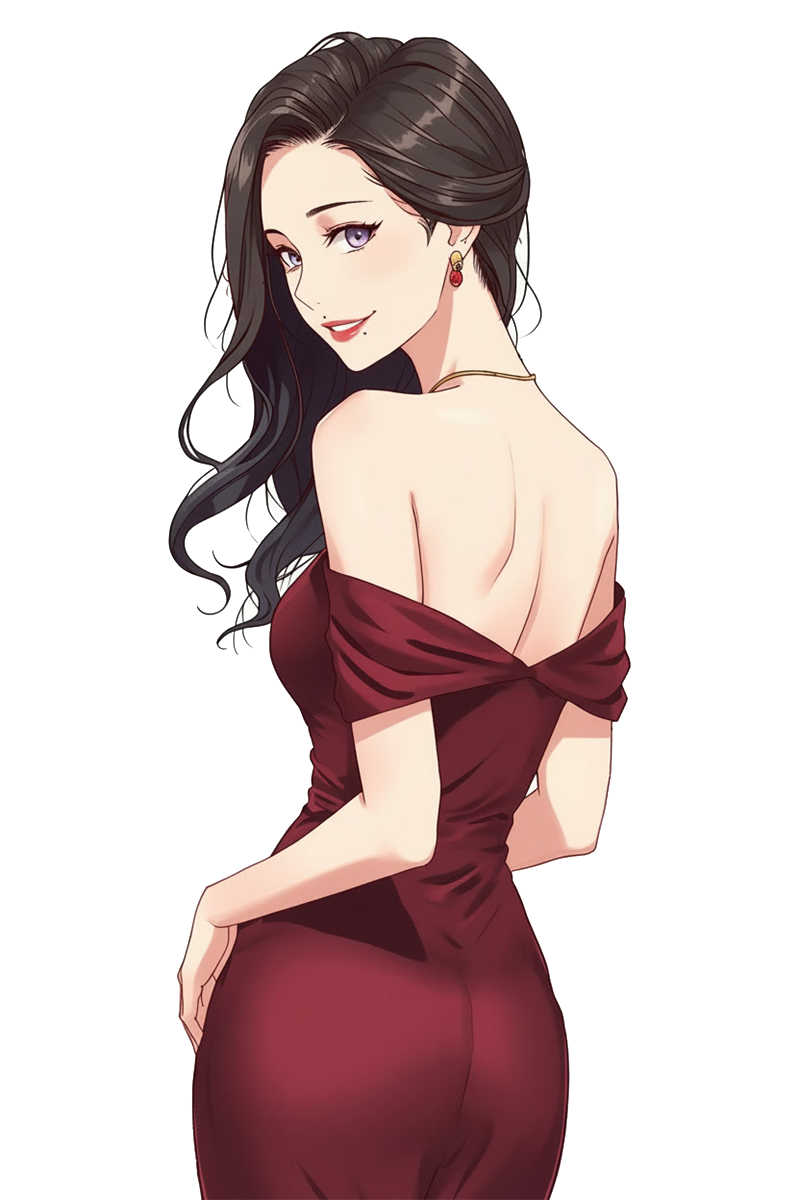
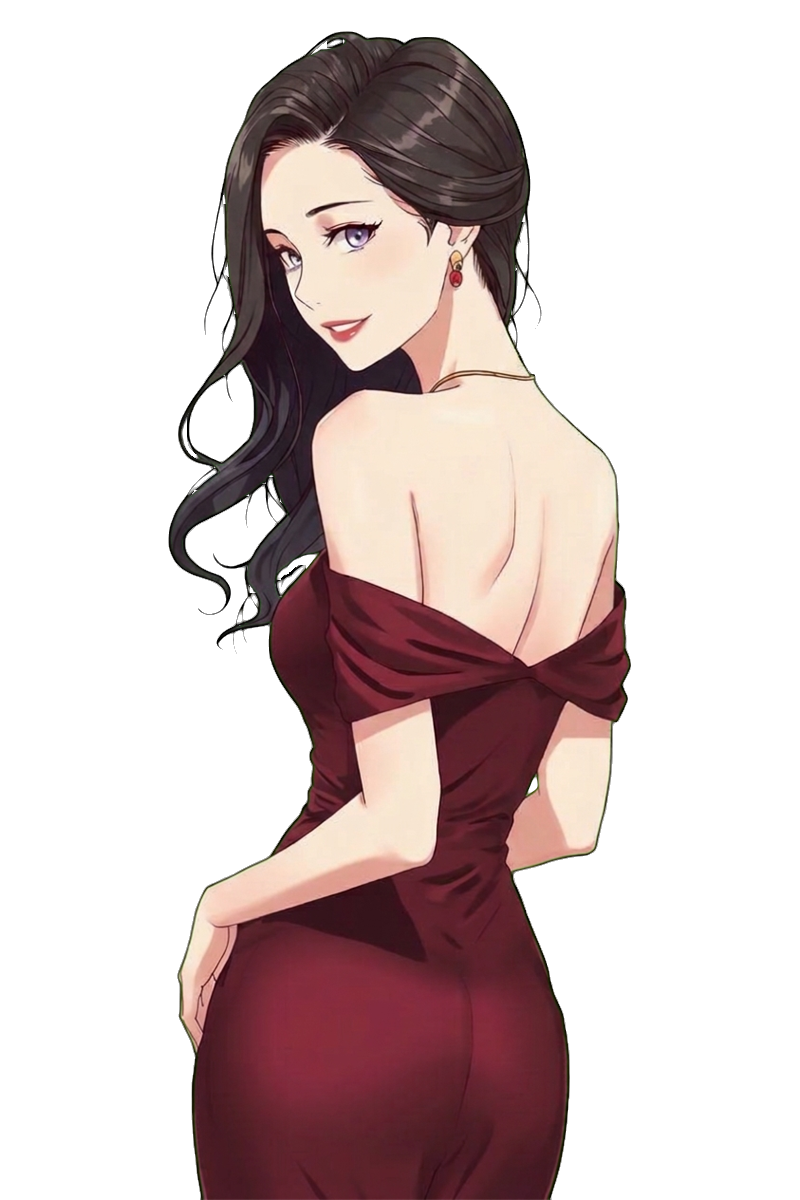
23 時の場面に瀬名の絵と立ち絵を出し、玲子の立ち絵を差し替える（v0.2.3）
- 瀬名のモップがけの場面の絵（ch1_sena_mop）を入れた
- @look・@event の本文の中で @show・@hide・@sound・@fx を使えるようにした（読む流れの中で実行。途中で打ち切ったら立ち絵は元に戻す）
- 23 時に八島が瀬名に気づく行で、瀬名の立ち絵をちらっと出す
- 玲子の立ち絵 3 枚を差し替えた（緑の背景）
- 変換スクリプト: 緑（青）の背景のとき、画像全体で緑みの強すぎる画素を薄くする（髪のすき間の影になった緑を消す）
- バージョンを 0.2.3 に上げた

diff --git a/game/js/game.js b/game/js/game.js
@@ -7,7 +7,7 @@
    =================================================================== */
 
 (function () {
-  const GAME_VERSION = '0.2.2';
+  const GAME_VERSION = '0.2.3';
   const SAVE_KEY = 'observer.save.v2';          // 場面のセーブ。形式を変えたら v を上げる
   const PROGRESS_KEY = 'observer.progress.v2';  // 章をまたぐ記録
   const DATA_VERSION = 2;
@@ -195,11 +195,27 @@
   function showLines(lines, onDone) {
     let i = 0;
     const next = () => {
-      while (i < lines.length && lines[i].note) { addNote(lines[i].note, lines[i].ln); i += 1; }
+      // 文章ではない行（手帳に書き留める行・演出の命令）は、表示せずにその場で実行する
+      while (i < lines.length && (lines[i].note || lines[i].cmd)) {
+        const ln = lines[i];
+        if (ln.note) addNote(ln.note, ln.ln);
+        else runBodyCommand(ln);
+        i += 1;
+      }
       if (i >= lines.length) { if (onDone) onDone(); return; }
       showText(lines[i++], next);
     };
     next();
+  }
+
+  // @look・@event の本文の中の演出の命令（@show・@hide・@sound・@fx）を実行する
+  function runBodyCommand(ln) {
+    try {
+      OPS[ln.cmd]({ op: ln.cmd, arg: ln.arg, ln: ln.ln });
+    } catch (e) {
+      reportError(`${run.script ? run.script.name : ''} ${ln.ln} 行目: ${e.message}`);
+    }
+    renderStatic();
   }
 
   // 高さの低い画面で、文章や選択肢が画面の外に出たら、見えるところまで動かす
@@ -610,7 +626,8 @@
     if (!target.body.length) { done(); renderChoices(); return; }
     clearChoices();
     run.reading = target;
-    showLines(target.body, () => { run.reading = null; done(); renderChoices(); checkExplore(); });
+    run.portraitsBefore = clone(state.portraits);   // 途中で打ち切ったら、本文の中で出した立ち絵を元に戻す
+    showLines(target.body, () => { run.reading = null; run.portraitsBefore = null; done(); renderChoices(); checkExplore(); });
   }
 
   // 探索の文章を読んでいる途中で、映すものが変わったら、その文章を打ち切る
@@ -620,6 +637,7 @@
     typer.item = null;
     typer.onDone = null;
     run.reading = null;
+    if (run.portraitsBefore) { state.portraits = run.portraitsBefore; run.portraitsBefore = null; renderStatic(); }
     renderChoices();
   }
 

diff --git a/game/js/parser.js b/game/js/parser.js
@@ -21,6 +21,9 @@ Observer.camera = function (id, def) {
 // 本文（ひと続きの文章）を持てる命令
 const BLOCK_OPS = new Set(['look', 'event']);
 
+// @look・@event の本文の中で使える演出の命令
+const BODY_OPS = new Set(['show', 'hide', 'sound', 'fx']);
+
 // ジャンプ先（*ラベル）を引数に持つ命令。読み込み時に、ラベルがあるか確かめる
 const JUMP_PATTERN = /\*[^\s|]+/g;
 
@@ -48,8 +51,15 @@ Observer.parseScript = function (name, text) {
 
     // 字下げした行は、直前の @look・@event の本文
     // 本文の中の「@note 文」は、読む流れの中で手帳に書き留める行
+    // 本文の中の「@show・@hide・@sound・@fx」は、読む流れの中で、その場で実行する演出
     if (block && /^[ \t]/.test(raw)) {
       if (line.startsWith('@note ')) { block.body.push({ note: line.slice(6).trim(), ln }); return; }
+      if (line.startsWith('@')) {
+        const m = line.match(/^@(\S+)\s*(.*)$/);
+        if (!BODY_OPS.has(m[1])) errors.push(`${ln} 行目: 本文の中では @${m[1]} は使えません（使えるのは @note・${[...BODY_OPS].map((o) => `@${o}`).join('・')}）`);
+        else block.body.push({ cmd: m[1], arg: m[2].trim(), ln });
+        return;
+      }
       block.body.push(Object.assign(parseText(line, cast), { ln }));
       return;
     }

diff --git a/game/index.html b/game/index.html
@@ -5,7 +5,7 @@
 <meta name="viewport" content="width=device-width, initial-scale=1, viewport-fit=cover">
 <meta name="theme-color" content="#07080a">
 <title>Observer</title>
-<link rel="stylesheet" href="css/style.css?v=0.2.2">
+<link rel="stylesheet" href="css/style.css?v=0.2.3">
 </head>
 <body class="screen-title">
 
@@ -163,13 +163,13 @@
 <div class="debug" id="debug"></div>
 
 <!-- 読み込む順番: 台本の読み込み → データ → 台本 → 描画・音 → ゲームの進行 -->
-<script src="js/parser.js?v=0.2.2"></script>
-<script src="data/cameras.js?v=0.2.2"></script>
-<script src="data/chapters.js?v=0.2.2"></script>
-<script src="data/characters.js?v=0.2.2"></script>
-<script src="scenario/chapter1.js?v=0.2.2"></script>
-<script src="js/renderer.js?v=0.2.2"></script>
-<script src="js/audio.js?v=0.2.2"></script>
-<script src="js/game.js?v=0.2.2"></script>
+<script src="js/parser.js?v=0.2.3"></script>
+<script src="data/cameras.js?v=0.2.3"></script>
+<script src="data/chapters.js?v=0.2.3"></script>
+<script src="data/characters.js?v=0.2.3"></script>
+<script src="scenario/chapter1.js?v=0.2.3"></script>
+<script src="js/renderer.js?v=0.2.3"></script>
+<script src="js/audio.js?v=0.2.3"></script>
+<script src="js/game.js?v=0.2.3"></script>
 </body>
 </html>

diff --git a/game/scenario/chapter1.js b/game/scenario/chapter1.js
@@ -244,9 +244,11 @@ Observer.script('chapter1', `
   声は聞こえない。口だけが、動いている。――先輩、これ見て。
   ……瞬きをすると、元の廊下に戻っていた。八島は、目をこすった。
   知っている。あの仕草を、知っている。
+  @show 瀬名 normal
   八島「……瀬名」
   8 年ぶりに見る顔だった。
   八島「なんで……なんで、ここに」
+  @hide 瀬名
   八島は、画面を切り替えようとして、できなかった。缶コーヒーを持つ手が、止まったまま動かない。
   日報の「異常なし」の字が、少しだけ乱れた。
   胸の底に、ずっと沈めてきた言葉が、浮かびかけて、また沈んでいく。

diff --git a/assets_src/README.md b/assets_src/README.md
@@ -137,7 +137,7 @@
 
 | ファイル | 作者・入手元 | ライセンス・規約 | クレジット表記 |
 |---|---|---|---|
-| `chars/reiko_normal`・`reiko_smile`・`reiko_sad`・`sena_normal`・`sena_smile`・`saeki_smile`・`saeki_flushed`・`jogasaki_normal`・`jogasaki_aroused`・`jogasaki_after`、`scenes/ch1_reiko_look`・`ch1_backyard_affair`、`bg/cam00_room` | Leonardo.ai（無料プラン）で生成（2026-11-08） | Leonardo.ai の利用規約による。無料プランの生成物は公開され、権利は Leonardo.ai が持つが、商用を含めて利用できると案内されている | 不要（任意） |
+| `chars/reiko_normal`・`reiko_smile`・`reiko_sad`・`sena_normal`・`sena_smile`・`saeki_smile`・`saeki_flushed`・`jogasaki_normal`・`jogasaki_aroused`・`jogasaki_after`、`scenes/ch1_reiko_look`・`ch1_backyard_affair`・`ch1_sena_mop`、`bg/cam00_room` | Leonardo.ai（無料プラン）で生成（2026-11-08。玲子の立ち絵は同日に作り直し） | Leonardo.ai の利用規約による。無料プランの生成物は公開され、権利は Leonardo.ai が持つが、商用を含めて利用できると案内されている | 不要（任意） |
 
 ## 注意
 

diff --git a/design/data/scenario_format.md b/design/data/scenario_format.md
@@ -28,7 +28,7 @@ Observer.script('chapter1', `
 | `@命令 …` | 命令（下の一覧） |
 | `名前「…」` | セリフ。名前が `@cast` に書いてあるときだけセリフになる（それ以外は地の文） |
 | `- 文 -> *ラベル` | 選択肢（`@choice` の直後に並べる） |
-| 字下げした行 | 直前の `@look`・`@event` の本文。本文の中に `@note 文` と書くと、読む流れの中で手帳に一行書き留める |
+| 字下げした行 | 直前の `@look`・`@event` の本文。本文の中に `@note 文` と書くと、読む流れの中で手帳に一行書き留める。`@show`・`@hide`・`@sound`・`@fx` も書け、読む流れの中でその場で実行する（例: 人物に気づいた行の前で `@show 瀬名 normal`、少しあとで `@hide 瀬名`）。読んでいる途中でカメラを切り替えて打ち切ったときは、本文の中で出した立ち絵は元に戻る |
 | それ以外 | 地の文 |
 
 空行は無視されます。

diff --git a/spec/05_requirements.md b/spec/05_requirements.md
@@ -9,7 +9,7 @@
 | ID | 要件の番号。設計書や PR から参照するときに使う |
 | 優先度 | **必須** = ないと物語が遊べない ／ **推奨** = 遊びやすさに大きく効く ／ **任意** = あるとよい |
 | 主な章 | その仕組みを最初に使う章（「全」はすべての章） |
-| 状態 | 実装済み ／ 一部 ／ 未実装（2026-11-08 時点、v0.2.2） |
+| 状態 | 実装済み ／ 一部 ／ 未実装（2026-11-08 時点、v0.2.3） |
 
 ---
 

diff --git a/spec/01_overview.md b/spec/01_overview.md
@@ -15,7 +15,7 @@
 
 ## 機能一覧
 
-機能ごとの要件と、いまの実装の状態は [05_requirements.md](05_requirements.md) にまとめています。v0.2.2 で遊べるのは第1章（通常解決・バッドエンド・真解決）です。
+機能ごとの要件と、いまの実装の状態は [05_requirements.md](05_requirements.md) にまとめています。v0.2.3 で遊べるのは第1章（通常解決・バッドエンド・真解決）です。
 
 ## 非機能要件
 
